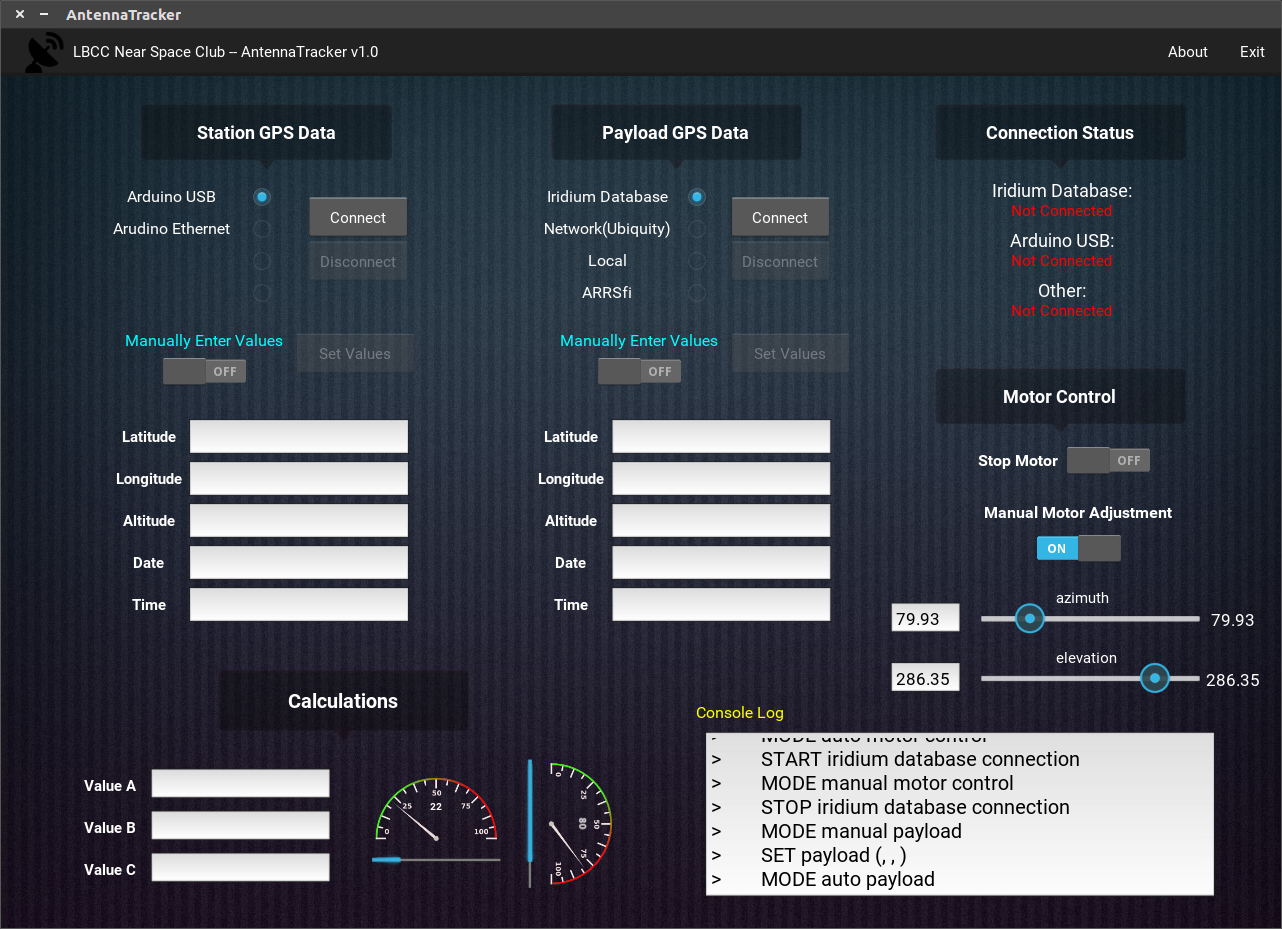
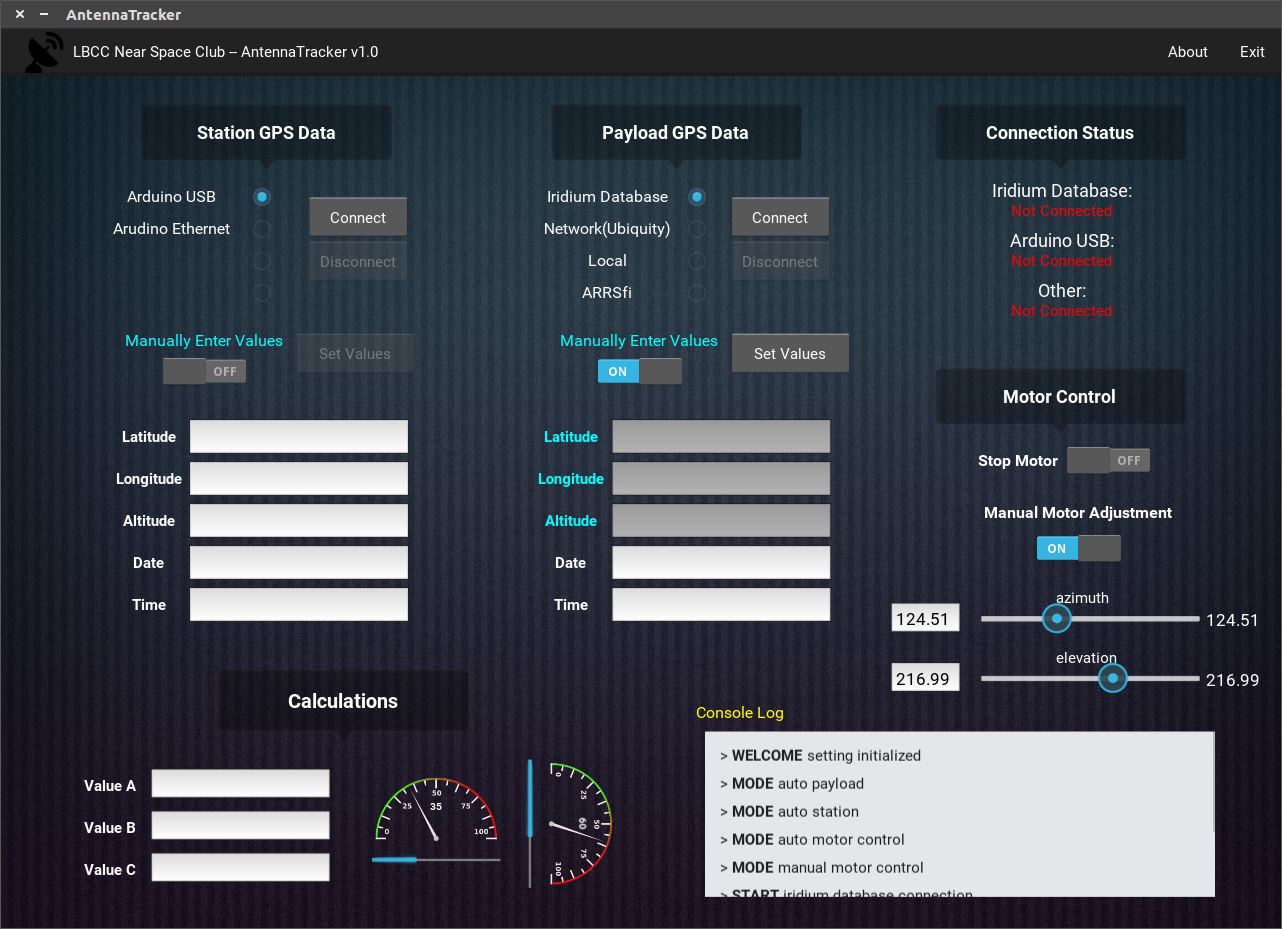
console log is now reStructuredText document

diff --git a/AntennaTracker/AntennaTracker.py b/AntennaTracker/AntennaTracker.py
@@ -54,10 +54,6 @@ class RootLayout(FloatLayout):
 	def updateConsole(self, text):
 		self.rst_doc=(self.rst_doc+"\n"+"> "+text+"\n")
 
-		# def updateConsole(self, text):
-		# self.ids.consolelog.text=(".._top:"+self.ids.consolelog.text+"\n"+">\t\t"+text+"top_::")
-
-
 
 	#######################
 	### INITIAL SETTING ###
@@ -74,16 +70,6 @@ class RootLayout(FloatLayout):
 		self.payloadManualSwitch()
 		self.stationManualSwitch()
 		self.motorManualSwitch()
-		# self.ids.consolelog.text = ('.. _top:\n'
-  #               '\n'
-  #               'Hello world\n'
-  #               '===========\n'
-  #               '\n'
-  #               'This is an **emphased text**, *italic text*, ``interpreted text``.\n'
-  #               'And this is a reference to top_::\n'
-  #               '\n'
-  #               '    $ print("Hello world")\n')
-	#######################
 
 
 	def startIridiumDatabase(self):
@@ -99,7 +85,6 @@ class RootLayout(FloatLayout):
 			except:
 				return
 				
-
 
 	def stopIridiumDatabase(self):
 		if(self.db_list):
